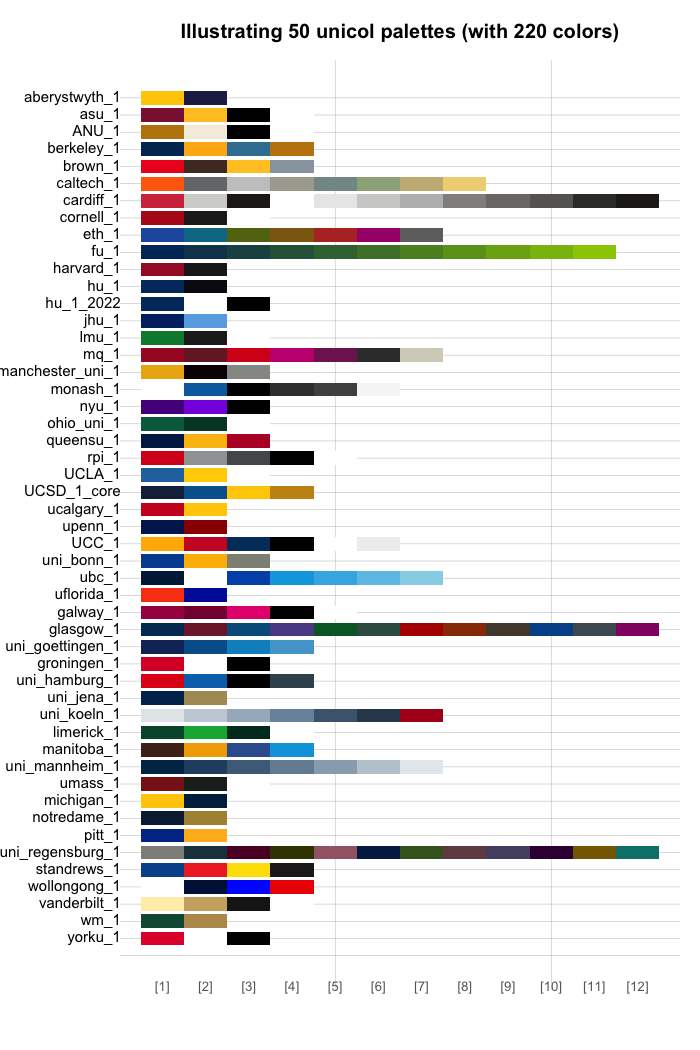
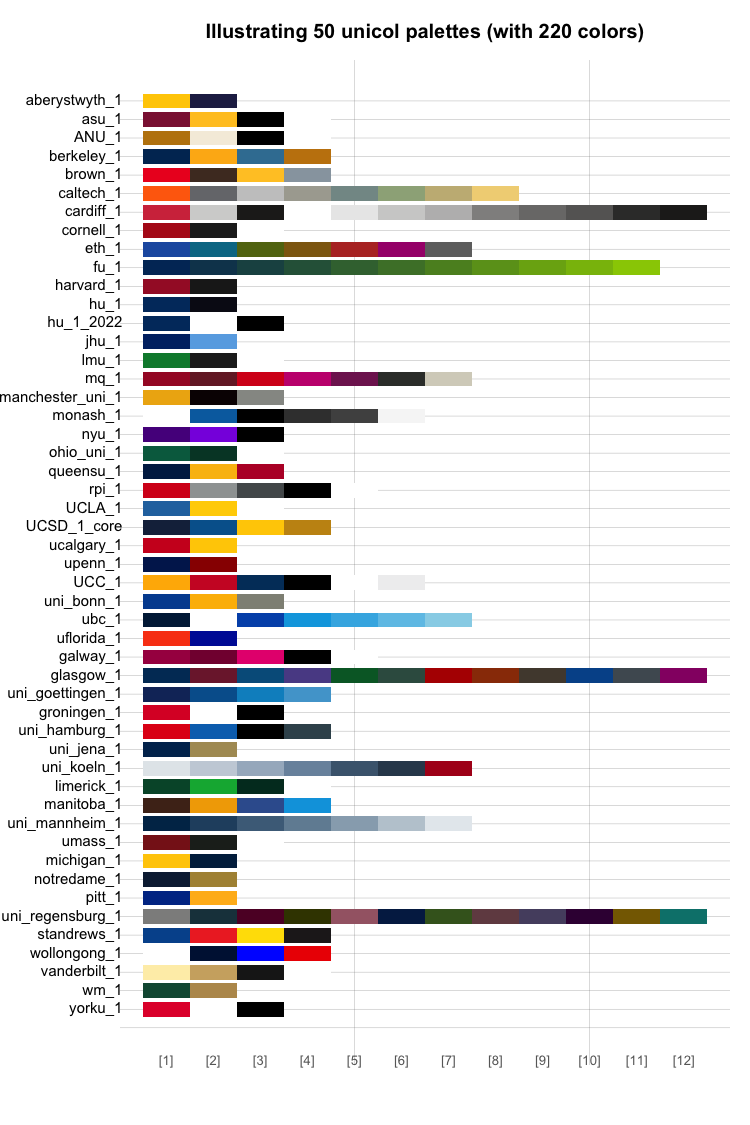
update and decrease figure sizes

diff --git a/README.md b/README.md
@@ -15,11 +15,11 @@ status](https://www.r-pkg.org/badges/version/unicol)](https://CRAN.R-project.org
 <!-- [![DOI](https://zenodo.org/badge/DOI/10.5281/zenodo.8252106.svg)](https://doi.org/10.5281/zenodo.8252106) -->
 <!-- Release badges end. -->
 
-# unicol 0.1.0.9016 <img src = "man/figures/logo.png" align = "right" alt = "unicol::" width = "165px" alt="" />
+# unicol 0.2.0 <img src = "man/figures/logo.png" align = "right" alt = "unicol::" width = "160px" alt="" />
 
 <!-- unicol pkg logo and link: -->
 <!-- <a href = "https://CRAN.R-project.org/package=unicol"> -->
-<!-- <img src = "./man/figures/logo.png" alt = "unicol::" align = "right" width = "165px" style = "width: 165px; float: right; border:0;"/> -->
+<!-- <img src = "./man/figures/logo.png" alt = "unicol::" align = "right" width = "160px" style = "width: 160px; float: right; border:0;"/> -->
 <!-- </a> -->
 <!-- Slogan: -->
 
@@ -108,6 +108,8 @@ Figure 1: A sample of 50 unicol palettes (containing 220 colors).
 
 </div>
 
+<!-- ![Examples of 50 color palettes included in **unicol**.](./man/figures/README-unicol-pals-example-1-figure-1.png) -->
+
 ### Using color palettes
 
 As the **unicol** palettes are provided as vectors of R colors, they can
@@ -192,7 +194,7 @@ following information:
 <!-- ToDo: -->
 
 <a href = "https://github.com/hneth/unicol/issues/30">
-<img src = "./man/figures/todo.png" alt = "unicol::todo" align = "right" width = "165px" style = "width: 165px; float: right; border:0;"/>
+<img src = "./man/figures/todo.png" alt = "unicol::todo" align = "right" width = "160px" style = "width: 160px; float: right; border:0;"/>
 </a>
 
 1.  your code (e.g., the `newpal()` command creating your color
@@ -273,18 +275,18 @@ functionality from it.
 <!-- unicol pkg logo and link: -->
 
 <a href = "https://CRAN.R-project.org/package=unicol">
-<img src = "./man/figures/logo.png" alt = "unicol::" align = "right" width = "165px" style = "width: 165px; float: right; border:0;"/>
+<img src = "./man/figures/logo.png" alt = "unicol::" align = "right" width = "160px" style = "width: 160px; float: right; border:0;"/>
 </a>
 
 To support our efforts, please cite the **unicol** package in your
-derivations or publications.
+derivations or publications:
 
 <!-- Citation / reference (in APA format): -->
 
 - Neth, H. et al. (2023). unicol: The colors of your university.  
   Social Psychology and Decision Sciences, University of Konstanz,
   Germany.  
-  Computer software (R package version 0.1.0, August 16, 2023).  
+  Computer software (R package version 0.2.0, September 15, 2023).  
   Retrieved from <https://CRAN.R-project.org/package=unicol>.  
   doi [10.5281/zenodo.8252106](https://doi.org/10.5281/zenodo.8252106)
 
@@ -298,7 +300,7 @@ A BibTeX entry for LaTeX users is:
       year = {2023},
       organization = {Social Psychology and Decision Sciences, University of Konstanz},
       address = {Konstanz, Germany},
-      note = {R package (version 0.1.0, August 16, 2023)},
+      note = {R package (version 0.2.0, September 15, 2023)},
       url = {https://CRAN.R-project.org/package=unicol},
       doi = {10.5281/zenodo.8252106},
     }
@@ -315,6 +317,6 @@ creators.
 
 <!-- Footer: -->
 
-\[File `README.Rmd` updated on 2023-09-13.\]
+\[File `README.Rmd` updated on 2023-09-14.\]
 
 <!-- eof. -->
